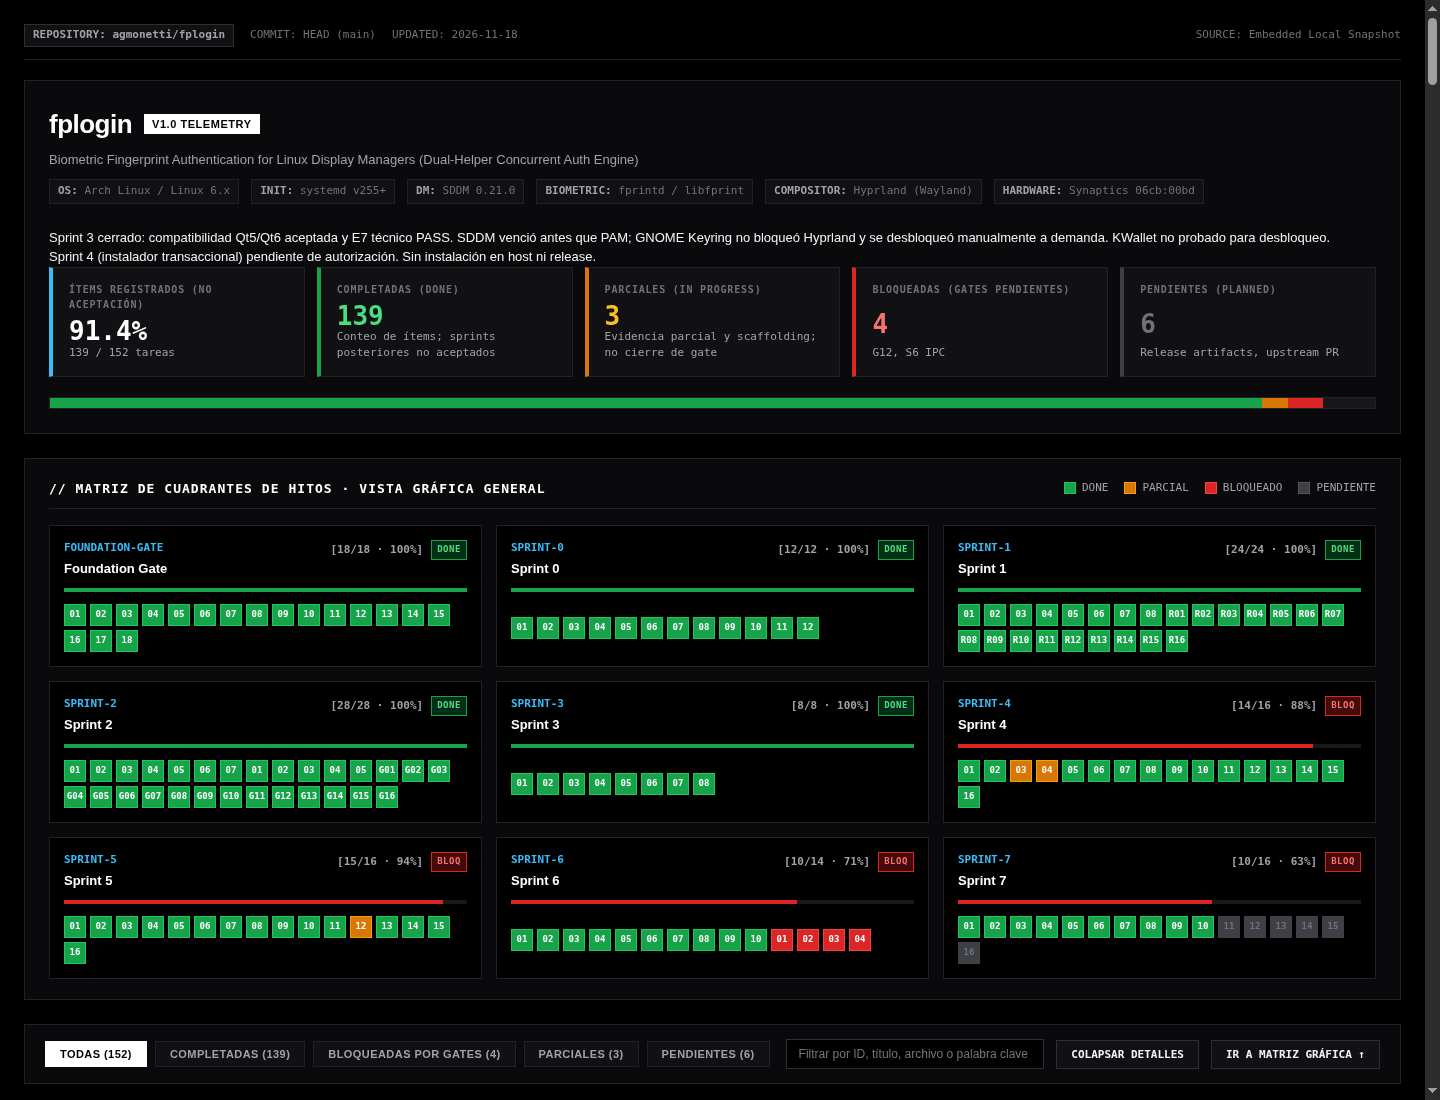
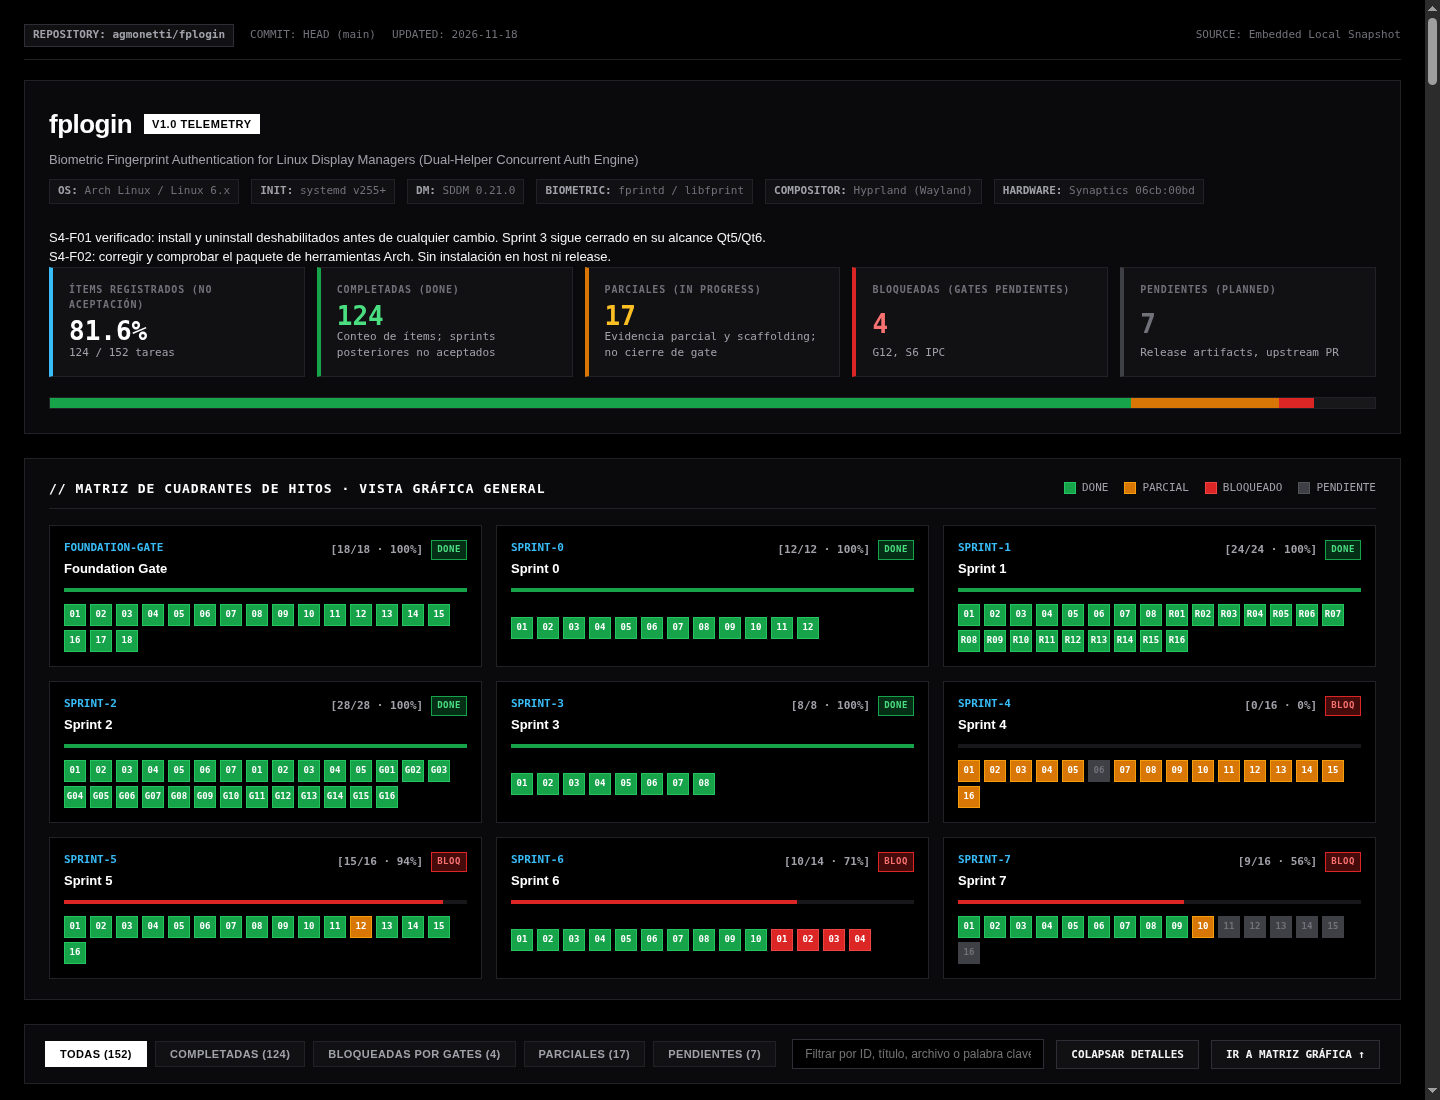
docs: correct Sprint 4 installer progress and record refusal checks

diff --git a/dashboard.html b/dashboard.html
@@ -1044,17 +1044,17 @@
     "target_v1": "Arch Linux \u00b7 systemd \u00b7 SDDM 0.21.0 \u00b7 fprintd / libfprint \u00b7 Hyprland",
     "reference_hardware": "Synaptics 06cb:00bd (match-on-sensor USB)",
     "last_updated": "2026-11-18",
-    "current_gate": "Sprint 3 (Servicio PAM y Empaquetado Arch/SDDM)",
-    "current_gate_status": "done",
-    "latest_achievement": "Sprint 3 cerrado: compatibilidad Qt5/Qt6 aceptada y E7 técnico PASS. SDDM venció antes que PAM; GNOME Keyring no bloqueó Hyprland y se desbloqueó manualmente a demanda. KWallet no probado para desbloqueo.",
-    "next_step": "Sprint 4 (instalador transaccional) pendiente de autorización. Sin instalación en host ni release.",
+    "current_gate": "Sprint 4 (instalador transaccional)",
+    "current_gate_status": "blocked",
+    "latest_achievement": "S4-F01 verificado: install y uninstall deshabilitados antes de cualquier cambio. Sprint 3 sigue cerrado en su alcance Qt5/Qt6.",
+    "next_step": "S4-F02: corregir y comprobar el paquete de herramientas Arch. Sin instalaci\u00f3n en host ni release.",
     "summary": {
       "total_items": 152,
-      "done": 139,
-      "partial": 3,
+      "done": 124,
+      "partial": 17,
       "blocked": 4,
-      "pending": 6,
-      "percentage": 91.4
+      "pending": 7,
+      "percentage": 81.6
     }
   },
   "sprints": [
@@ -1711,56 +1711,56 @@
           "id": "S3-01",
           "title": "Definici\u00f3n de Servicio PAM sddm-fingerprint",
           "status": "done",
-          "description": "Login físico por huella con el servicio empaquetado en la VM; el rechazo no abrió sesión ni alteró la línea base vacía de faillock.",
+          "description": "Login f\u00edsico por huella con el servicio empaquetado en la VM; el rechazo no abri\u00f3 sesi\u00f3n ni alter\u00f3 la l\u00ednea base vac\u00eda de faillock.",
           "evidence": "docs/reviews/sprint-3-physical-closure.md"
         },
         {
           "id": "S3-02",
           "title": "Pol\u00edtica de Cuentas y Sesi\u00f3n de la Distribuci\u00f3n",
           "status": "done",
-          "description": "Política stock de cuentas y sesión, con restricciones verificadas en contenedor. GNOME Keyring no bloqueó Hyprland; desbloqueo manual a demanda. KWallet no probado para desbloqueo; desbloqueo automático por huella fuera de v1.",
+          "description": "Pol\u00edtica stock de cuentas y sesi\u00f3n, con restricciones verificadas en contenedor. GNOME Keyring no bloque\u00f3 Hyprland; desbloqueo manual a demanda. KWallet no probado para desbloqueo; desbloqueo autom\u00e1tico por huella fuera de v1.",
           "evidence": "docs/reviews/sprint-3-physical-closure.md"
         },
         {
           "id": "S3-03",
           "title": "Par\u00e1metros de M\u00f3dulo de Reintento y Timeout",
           "status": "done",
-          "description": "Tres rechazos observados. En la prueba instrumentada sin toque venció primero SDDM (30 s nominales), antes del timeout de PAM (35 s); sin sesión ni cambio en faillock.",
+          "description": "Tres rechazos observados. En la prueba instrumentada sin toque venci\u00f3 primero SDDM (30 s nominales), antes del timeout de PAM (35 s); sin sesi\u00f3n ni cambio en faillock.",
           "evidence": "docs/reviews/sprint-3-physical-closure.md"
         },
         {
           "id": "S3-04",
           "title": "Receta Arch para el Stack SDDM Parcheado",
           "status": "done",
-          "description": "Paquete dual Qt5/Qt6, suplementos 0003/0004 y serie aceptada intacta. E2–E5 offline, E6 login/recuperación y E7 revisión técnica PASS. Runtime Qt5/OpenSSL3 fijado; verificación física registrada y compatibilidad aceptada.",
+          "description": "Paquete dual Qt5/Qt6, suplementos 0003/0004 y serie aceptada intacta. E2\u2013E5 offline, E6 login/recuperaci\u00f3n y E7 revisi\u00f3n t\u00e9cnica PASS. Runtime Qt5/OpenSSL3 fijado; verificaci\u00f3n f\u00edsica registrada y compatibilidad aceptada.",
           "evidence": "docs/SPRINT_3_EXECUTION_PLAN.md"
         },
         {
           "id": "S3-05",
           "title": "Reglas de Conflicts / Provides en Gestor de Paquetes",
           "status": "done",
-          "description": "pacman -U reemplazó SDDM stock limpiamente en la VM; provides/conflicts correctos. Login por huella verificado después en la pila empaquetada.",
+          "description": "pacman -U reemplaz\u00f3 SDDM stock limpiamente en la VM; provides/conflicts correctos. Login por huella verificado despu\u00e9s en la pila empaquetada.",
           "evidence": "docs/SPRINT_3_EXECUTION_PLAN.md"
         },
         {
           "id": "S3-06",
           "title": "Empaquetado de Tema y Assets de Interfaz",
           "status": "done",
-          "description": "263 hashes instalados/root:root; metadata selecciona Qt5 para elarun/maldives/maya y Qt6 para fplogin, con login real en cada caso. Revisión técnica E7 PASS; compatibilidad aceptada por el dueño.",
+          "description": "263 hashes instalados/root:root; metadata selecciona Qt5 para elarun/maldives/maya y Qt6 para fplogin, con login real en cada caso. Revisi\u00f3n t\u00e9cnica E7 PASS; compatibilidad aceptada por el due\u00f1o.",
           "evidence": "docs/SPRINT_3_EXECUTION_PLAN.md"
         },
         {
           "id": "S3-07",
           "title": "Recuperaci\u00f3n TTY y Retorno a SDDM Stock",
           "status": "done",
-          "description": "E6 recuperación ttyS0/rollback firmado/login stock PASS, corroborado en E7. Inventario y 69015 rutas restaurados, cuenta temporal eliminada y VM apagada; no restauración byte a byte del disco.",
+          "description": "E6 recuperaci\u00f3n ttyS0/rollback firmado/login stock PASS, corroborado en E7. Inventario y 69015 rutas restaurados, cuenta temporal eliminada y VM apagada; no restauraci\u00f3n byte a byte del disco.",
           "evidence": "docs/SPRINT_3_EXECUTION_PLAN.md"
         },
         {
           "id": "S3-08",
           "title": "Verificaci\u00f3n de Compilaci\u00f3n en Chroot Limpio",
           "status": "done",
-          "description": "E5 corregido PASS: dos builds limpios dual Qt con tests; main/debug idénticos byte a byte, candidato main e461b3a9…411a6. Corroborado en revisión E7; no reproducibilidad entre mirrors arbitrarios.",
+          "description": "E5 corregido PASS: dos builds limpios dual Qt con tests; main/debug id\u00e9nticos byte a byte, candidato main e461b3a9\u2026411a6. Corroborado en revisi\u00f3n E7; no reproducibilidad entre mirrors arbitrarios.",
           "evidence": "docs/SPRINT_3_EXECUTION_PLAN.md"
         }
       ],
@@ -1776,29 +1776,29 @@
     {
       "id": "sprint-4",
       "name": "Sprint 4",
-      "subtitle": "Motor Transaccional \u2014 avances registrados, sprint no aceptado",
+      "subtitle": "Instalador y desinstalador no verificados en Arch",
       "status": "blocked",
       "goal": "Construir el motor de transacciones con escritura anticipada (WAL), compensaci\u00f3n de rollback ante ca\u00eddas, validaci\u00f3n estricta de rutas can\u00f3nicas, orquestador de 13 fases y desinstalador verificado por checksums.",
       "items": [
         {
           "id": "S4-01",
           "title": "Preflight de Solo Lectura y Generador de Planes",
-          "status": "done",
-          "description": "Inspecci\u00f3n de pre-condiciones del sistema, c\u00e1lculo de acciones requeridas y validaci\u00f3n contra descriptores sin mutaci\u00f3n de disco.",
-          "evidence": "internal/core/install/ops.go"
+          "status": "partial",
+          "description": "Hay l\u00f3gica de planificaci\u00f3n en core, pero el preflight de solo lectura no est\u00e1 conectado a la CLI (S4-F03).",
+          "evidence": "internal/core/install/installer.go"
         },
         {
           "id": "S4-02",
           "title": "Detecci\u00f3n Din\u00e1mica de Display Managers",
-          "status": "done",
-          "description": "Descubrimiento de adaptadores de DM disponibles inspeccionando descriptores est\u00e1ticos en /usr/lib/fplogin/adapters/ y verificando UID 0.",
+          "status": "partial",
+          "description": "Existe descubrimiento de descriptores; falta detectar por separado los gestores instalados, habilitados y activos (S4-F02/F03).",
           "evidence": "internal/core/discovery/discovery.go"
         },
         {
           "id": "S4-03",
           "title": "Negociaci\u00f3n de Compatibilidad de Adaptadores",
           "status": "partial",
-          "description": "Componente con tests, pero en la CLI real el handshake falla: el contexto no lleva platform facts y el adaptador rechaza Describe (auditor\u00eda 2026-11-12, A4).",
+          "description": "Hay pruebas del componente, pero faltan conectar el contexto del host, el handshake y la selecci\u00f3n en la CLI (S4-F03).",
           "evidence": "docs/reviews/cli-provider-audit-2026-11-12.md"
         },
         {
@@ -1811,95 +1811,95 @@
         {
           "id": "S4-05",
           "title": "Validaci\u00f3n de Prerrequisitos y Rutas Seguras",
-          "status": "done",
-          "description": "Rechazo inmediato de rutas relativas o symlinks en cualquier directorio ancestro para neutralizar ataques de evasi\u00f3n de path.",
+          "status": "partial",
+          "description": "Existen validaciones de rutas, pero falta aplicar la pol\u00edtica de destinos en cada operaci\u00f3n (S4-F04).",
           "evidence": "internal/core/install/ops.go"
         },
         {
           "id": "S4-06",
           "title": "Confirmaci\u00f3n Expl\u00edcita ante Migraci\u00f3n de DM",
-          "status": "done",
-          "description": "Pausa interactiva y confirmaci\u00f3n con banderas CLI (--yes / --dry-run) antes de modificar servicios cr\u00edticos del sistema.",
-          "evidence": "cmd/fplogin/main.go"
+          "status": "pending",
+          "description": "Falta ligar la aprobaci\u00f3n al plan y pedir una confirmaci\u00f3n separada para reemplazar otro gestor habilitado (S4-F03).",
+          "evidence": "docs/SPRINT_4_EXECUTION_PLAN.md"
         },
         {
           "id": "S4-07",
           "title": "Diario de Transacciones Pre-Mutaci\u00f3n (WAL)",
-          "status": "done",
-          "description": "Registro secuencial en disco de cada mutaci\u00f3n planeada antes de su ejecuci\u00f3n para garantizar recuperabilidad post-crash.",
+          "status": "partial",
+          "description": "Existe un diario; falta registrar y sincronizar el estado real previo a cada cambio (S4-F04).",
           "evidence": "internal/core/transaction/journal.go"
         },
         {
           "id": "S4-08",
           "title": "Durabilidad con Fsync y M\u00e1quina de Estados Monot\u00f3nica",
-          "status": "done",
-          "description": "Llamada a fsync tras cada cambio de estado; transici\u00f3n monot\u00f3nica de estados (planning -> in_progress -> completed/aborted).",
+          "status": "partial",
+          "description": "Hay estados y llamadas a fsync; falta verificar los l\u00edmites de durabilidad y los fallos de sincronizaci\u00f3n (S4-F04).",
           "evidence": "internal/core/transaction/journal.go"
         },
         {
           "id": "S4-09",
           "title": "Motor de Operaciones de Archivo At\u00f3micas",
-          "status": "done",
-          "description": "Escritura en archivo temporal con permisos restringidos, fsync y rename() at\u00f3mico sobre el destino final.",
+          "status": "partial",
+          "description": "Hay primitivas de escritura at\u00f3mica; falta verificarlas en el ciclo real con la pol\u00edtica de destinos (S4-F04/F05).",
           "evidence": "internal/core/install/ops.go"
         },
         {
           "id": "S4-10",
           "title": "Creaci\u00f3n de Directorios con Seguimiento de Rollback",
-          "status": "done",
-          "description": "Registro de directorios creados por el instalador para su eliminaci\u00f3n limpia y ordenada durante una compensaci\u00f3n de marcha atr\u00e1s.",
+          "status": "partial",
+          "description": "Existe l\u00f3gica de creaci\u00f3n y limpieza de directorios; falta verificar la recuperaci\u00f3n tras una interrupci\u00f3n (S4-F04/F07).",
           "evidence": "internal/core/install/ops.go"
         },
         {
           "id": "S4-11",
           "title": "Rotaci\u00f3n Autom\u00e1tica de Respaldos (.fplogin.bak.<ts>)",
-          "status": "done",
-          "description": "Copia de seguridad con timestamp y checksum SHA-256 de cualquier archivo pre-existente antes de ser sobrescrito.",
+          "status": "partial",
+          "description": "Existe l\u00f3gica de respaldo; falta garantizar su durabilidad y conservar la l\u00ednea base al repetir instalaciones (S4-F04/F06).",
           "evidence": "internal/core/install/ops.go"
         },
         {
           "id": "S4-12",
           "title": "Motor de Compensaci\u00f3n y Rollback ante Ca\u00eddas",
-          "status": "done",
-          "description": "Capacidad de leer un diario interrumpido a mitad de mutaci\u00f3n y revertir en orden inverso exactamente las operaciones aplicadas.",
+          "status": "partial",
+          "description": "Hay compensaci\u00f3n probada con dobles de prueba; falta recuperaci\u00f3n desde disco y restauraci\u00f3n verificada tras fallos reales (S4-F04/F05/F07).",
           "evidence": "internal/core/install/installer.go"
         },
         {
           "id": "S4-13",
           "title": "Pipeline Instalador Monot\u00f3nico de 13 Fases",
-          "status": "done",
-          "description": "Orquestaci\u00f3n estricta en 13 fases desde InitTransaction hasta PublishManifest con validaci\u00f3n de contratos en cada paso.",
+          "status": "partial",
+          "description": "Existe un orquestador en core; la CLI no ejecuta instalaciones y falta verificar el ciclo real (S4-F05/F07).",
           "evidence": "internal/core/install/installer.go"
         },
         {
           "id": "S4-14",
           "title": "Publicador de Manifiesto con Checksums SHA-256",
-          "status": "done",
-          "description": "Generaci\u00f3n del install-manifest final con lista exhaustiva de archivos creados, modificados, respaldos y hashes criptogr\u00e1ficos.",
+          "status": "partial",
+          "description": "Existe publicaci\u00f3n de manifiesto; falta verificar su durabilidad y conservar la l\u00ednea base al repetir operaciones (S4-F06).",
           "evidence": "internal/core/manifest/manifest.go"
         },
         {
           "id": "S4-15",
           "title": "Desinstalador Verificado contra Manifiesto",
-          "status": "done",
-          "description": "Desinstalaci\u00f3n segura: compara hashes de archivos, rechaza eliminar archivos modificados externamente y restaura backups originales.",
+          "status": "partial",
+          "description": "Hay l\u00f3gica de comparaci\u00f3n de hashes y restauraci\u00f3n de archivos; falta desinstalaci\u00f3n transaccional y verificaci\u00f3n de la restauraci\u00f3n (S4-F06).",
           "evidence": "internal/core/manifest/manifest.go"
         },
         {
           "id": "S4-16",
           "title": "Suite de Pruebas de Integraci\u00f3n del Instalador E2E",
-          "status": "done",
-          "description": "Pruebas de ciclo de vida completo: instalaci\u00f3n limpia, dry-run, simulaci\u00f3n de fallo a mitad de mutaci\u00f3n con rollback y desinstalaci\u00f3n.",
+          "status": "partial",
+          "description": "Las pruebas de integraci\u00f3n usan dobles de prueba y simulaciones. Falta verificar el ciclo real en un hu\u00e9sped Arch desechable (S4-F07).",
           "evidence": "tests/integration/core/installer_test.go"
         }
       ],
       "summary": {
         "total": 16,
-        "done": 14,
-        "partial": 2,
+        "done": 0,
+        "partial": 15,
         "blocked": 0,
-        "pending": 0,
-        "percentage": 87.5
+        "pending": 1,
+        "percentage": 0.0
       }
     },
     {
@@ -2219,8 +2219,8 @@
         {
           "id": "S7-10",
           "title": "CLI Unificado de Control de fplogin",
-          "status": "done",
-          "description": "Punto de entrada cmd/fplogin con subcomandos install, uninstall, status y analyze con flags de seguridad.",
+          "status": "partial",
+          "description": "La CLI ofrece status y analyze en modo de solo lectura; install y uninstall est\u00e1n deshabilitados.",
           "evidence": "cmd/fplogin/main.go"
         },
         {
@@ -2268,11 +2268,11 @@
       ],
       "summary": {
         "total": 16,
-        "done": 10,
-        "partial": 0,
+        "done": 9,
+        "partial": 1,
         "blocked": 0,
         "pending": 6,
-        "percentage": 62.5
+        "percentage": 56.25
       }
     }
   ]

diff --git a/README.md b/README.md
@@ -101,16 +101,13 @@ No existing system files will be modified in place. The installer will generate 
 
 ## CLI Usage
 
-> **Status (2026-11-12 audit, see [CLI and provider audit](docs/reviews/cli-provider-audit-2026-11-12.md)):** the `fplogin` CLI is **not ready for use**. `install` and `uninstall` cannot complete end to end: discovery fails before any change, and the SDDM adapter and Arch platform provider do not yet implement detection, planning, application or verification. These operations now refuse explicitly instead of reporting success. Do not run `sudo fplogin install` on a real system. `analyze` runs, but its "safe" conclusion is not yet backed by probes and must not be used to make an installation decision.
+> **Sprint 4: host installation and uninstallation are disabled.** `install` and `uninstall` return an error before discovery, subprocess execution, or manifest and journal access. `install --dry-run` also returns an error until read-only preflight is connected (S4-F03). See the [Sprint 4 execution plan](docs/SPRINT_4_EXECUTION_PLAN.md).
 
-Intended interface (target of Sprints 3–5, not yet verified):
+The separate read-only commands remain available:
 
 ```bash
-fplogin analyze [--json] [--user <username>]   # experimental; conclusions not yet trustworthy
-fplogin install --dry-run                        # not functional yet
-sudo fplogin install                             # not functional yet — do not run
-fplogin status                                   # reports the absence/presence of a manifest
-sudo fplogin uninstall                           # not functional yet
+fplogin status          # reads the manifest and checks recorded file integrity
+fplogin analyze --json  # experimental; do not rely on it for installation decisions
 ```
 
 ## Documentation
